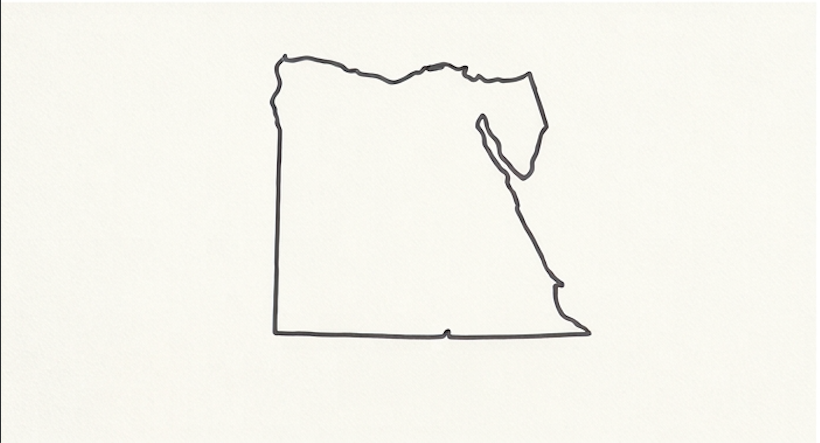
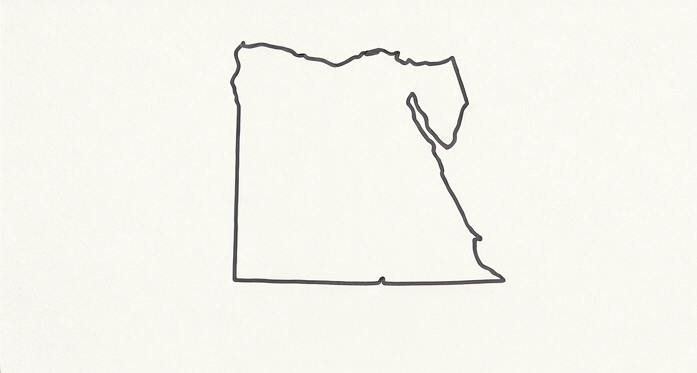
finished fun facts page with wave 2 and wave 3

Changed region(s): [[0.3314, 0.118, 0.7231, 0.7668]]

diff --git a/pages/facts.html b/pages/facts.html
@@ -5,33 +5,37 @@
   <meta http-equiv="X-UA-Compatible" content="IE=edge">
   <meta name="viewport" content="width=device-width, initial-scale=1.0">
   <meta name="description" content="A fansite celebrating dishes and food traditions from around the world.">
-  <meta name="author" content="Rahma Mahdi">
-  <meta name="author" content="Yan Zhao">
-  <meta name="author" content="Nada Feteiha">
-  <meta name="author" content="Angelyn Liem">
-  <title>Facts</title>
+  <title>World Cuisines Fansite - Facts</title>
   <link rel="stylesheet" href="../stylesheets/style.css">
   <link rel="stylesheet" href="../stylesheets/facts.css">
 </head>
 
 <body>
-  <header>
-    <h1>World Cuisines Fansite</h1>
-    <!-- navigation -->
-    <nav aria-label="Main navigation">
-      <ul>
-        <li><a href="index.html">Home</a></li>
-        <li><a href="pages/facts.html" aria-current="page">Fun Facts</a></li>
-        <li><a href="pages/gallery.html">Gallery</a></li>
-        <li><a href="pages/recipes.html">Recipes</a></li>
-      </ul>
-    </nav>
+  <header class="site-header">
+    <h1>Fun Facts</h1>
   </header>
+
+  <!-- navigation -->
+  <nav aria-label="Main navigation">
+    <ul>
+      <li><a href="../index.html">Home</a></li>
+      <li><a href="facts.html" aria-current="page">Fun Facts</a></li>
+      <li><a href="gallery.html">Gallery</a></li>
+      <li><a href="recipes.html">Recipes</a></li>
+    </ul>
+  </nav>
+
 
   <main>
     <section class="card">
-      <p class="region">North Africa</p>
-      <h2>Shakshuka</h2>
+      <div class="card-header">
+        <div>
+          <p class="region">North Africa</p>
+          <h2>Shakshuka</h2>
+        </div>
+        <img src="../images/map_northafrica.png" alt="Map of North Africa" class="map">
+      </div>
+      
       <p>Fun fact: Nobody agrees on what the name means.</p>
       <ul>
         <li>The name comes from Maghrebi Arabic and means “mixed”.</li>
@@ -40,8 +44,14 @@
     </section>
     
     <section class="card">
-      <p class="region">Thailand</p>
-      <h2>Tom Yum Soup</h2>
+      <div class="card-header">
+        <div>
+          <p class="region">Thailand</p>
+          <h2>Tom Yum Soup</h2>
+        </div>
+        <img src="../images/map_thailand.png" alt="Map of Thailand" class="map">
+      </div>
+
       <p>Fun fact: A soup gave its name to a financial crisis. The 1997 Asian financial crisis started in Thailand, and Thai people call it the “Tom Yum Kung crisis”.</p>
       <ul>
         <li>The Bank of Thailand says the crisis began on 2 July 1997, the day Thailand announced it would float the baht and asked the IMF for help.</li>
@@ -50,8 +60,14 @@
     </section>
 
     <section class="card">
-      <p class="region">Egypt</p>
-      <h2>Koshari</h2>
+      <div class="card-header">
+        <div>
+          <p class="region">Egypt</p>
+          <h2>Koshari</h2>
+        </div>
+        <img src="../images/map_egypt.png" alt="Map of Egypt" class="map">
+      </div>
+
       <p>Fun fact: A koshary seller is part chef, part street performer.</p>
       <ul>
         <li>vendors toss each scoop through the air onto the plate and smack the ladle on the pot, which makes a clang.</li>
@@ -60,15 +76,20 @@
     </section>
 
     <section class="card">
-      <p class="region">Mexico</p>
-      <h2>Shrimp Ceviche</h2>
+      <div class="card-header">
+        <div>
+          <p class="region">Mexico</p>
+          <h2>Shrimp Ceviche</h2>
+        </div>
+        <img src="../images/map_mexico.png" alt="Map of mexico" class="map">
+      </div>
+      
       <p>Fun fact: The shrimp turns pink without any heat. Lime juice “cooks” it.</p>
       <ul>
         <li>The acid in lime juice breaks the weak bonds that hold proteins together. This is called denaturing, and it changes the color and texture of the meat, just like heat does.</li>
         <li>The leftover juice has a funny name: "leche de tigre", or "tiger's milk". In Peru, people drink it as a shot and call it a hangover cure.</li>
       </ul>
     </section>
-
   </main>
 
   <footer class="site-footer">

diff --git a/stylesheets/facts.css b/stylesheets/facts.css
@@ -1,17 +1,62 @@
 /* ---------- Wave 2 - Styling on the facts page ---------- */
-li {
+.site-header,
+nav,
+.site-footer {
+    background:
+        linear-gradient(rgba(0, 0, 0, 0.25), rgba(0, 0, 0, 0.25)),
+        url(../images/header_background.jpg) repeat;
+    background-color: #c0392b;
+    background-size:
+        cover,
+        350px auto;
+}
+
+nav {
+    padding: 16px 20px;
+}
+
+nav ul {
+    display: flex;
+    flex-wrap: wrap;
+    justify-content: center;
+    gap: 10px;
+}
+
+/* --------------------------------------------------- */
+.card li {
     list-style-type: "✿ ";
 }
 
-li::marker {
+.card li::marker {
     color: #c0392b;
 }
 
 .region {
-  margin: 0 0 5px;
-  font-size: 1.1rem;
-  font-weight: bold;
+    margin: 0 0 5px;
+    font-size: 1.1rem;
+    font-weight: bold;
 }
 
 
 /* ---------- Wave 3 - Layout ---------- */
+.card-header {
+    display: flex;
+    flex-direction: row;
+    flex-wrap: wrap;
+    justify-content: flex-start;
+    align-items: center;
+    gap: 1rem;
+}
+
+.card-header h2 {
+    margin: 0.25rem 0 0;
+}
+
+.card-header > div {
+    width: 12rem;
+}
+
+.map {
+    width:160px;
+    height: auto;
+}
